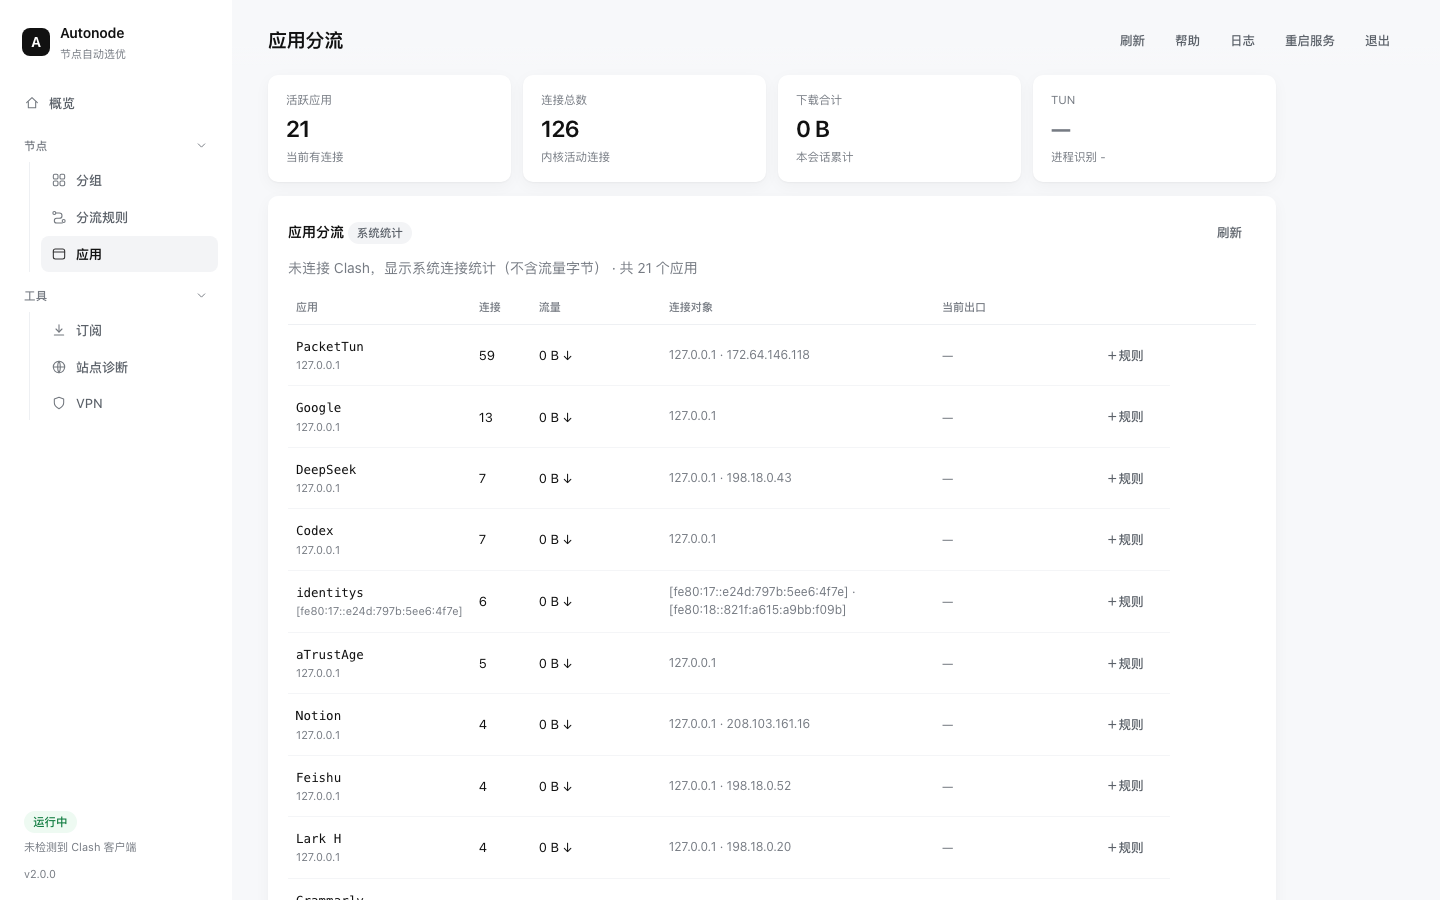
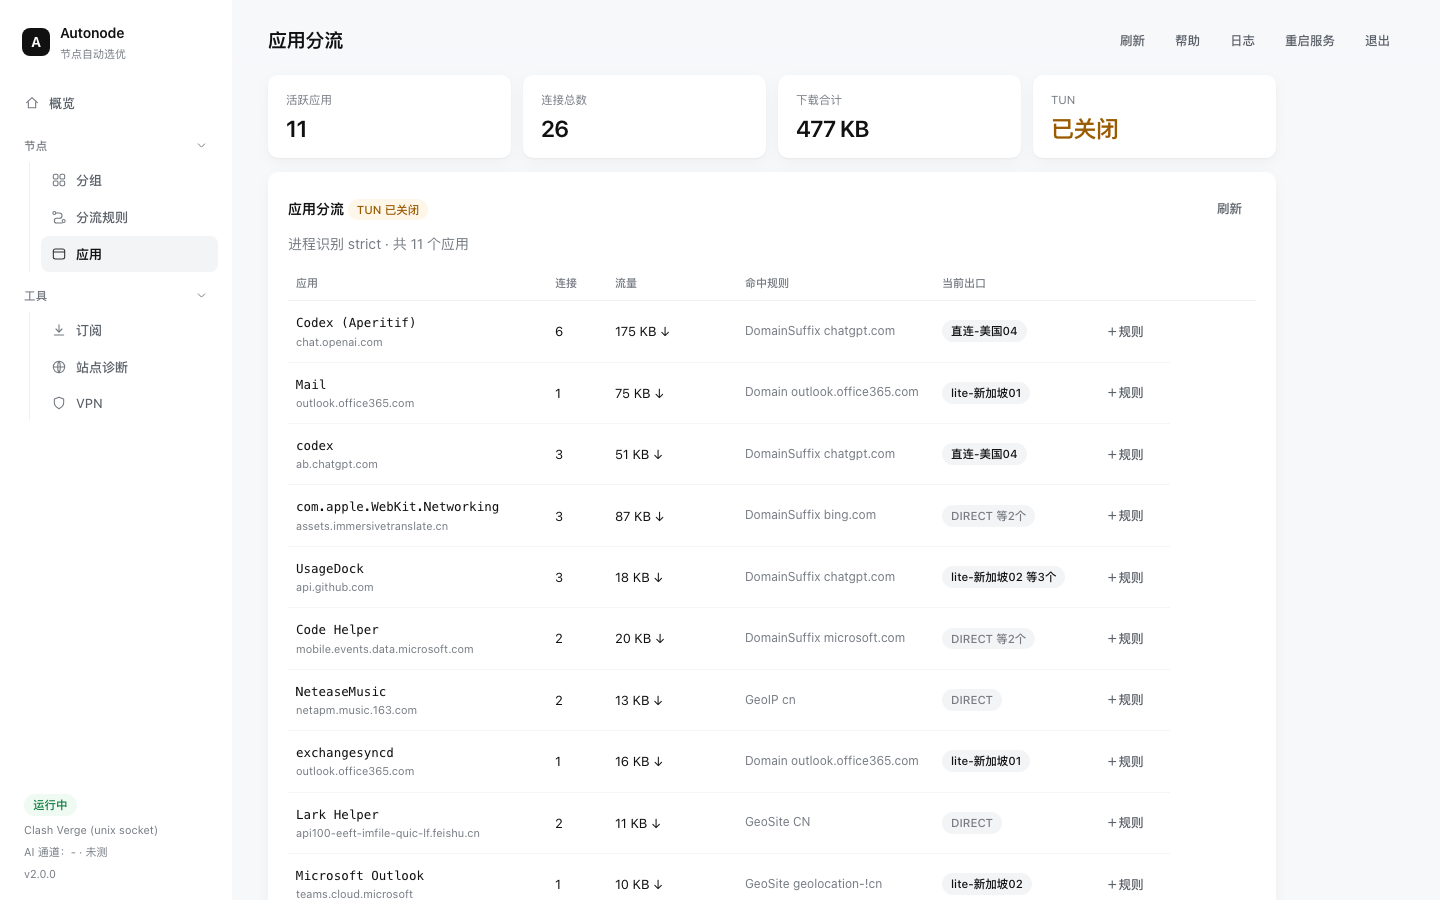
style: 去掉 KPI 副标题与说明小字；修正控制器类型显示；系统模式流量显示为 —

diff --git a/autonode.py b/autonode.py
@@ -632,7 +632,7 @@ def lsof_apps():
             host = endpoint.split("->")[-1].rsplit(":", 1)[0]
             if host:
                 item["hosts"].add(host)
-    apps = [{"name": v["name"], "conns": v["conns"], "download": 0, "upload": 0,
+    apps = [{"name": v["name"], "conns": v["conns"], "download": None, "upload": None,
              "rules": [], "outbound": [], "hosts": sorted(v["hosts"])[:2]}
             for v in agg.values()]
     apps.sort(key=lambda a: -a["conns"])
@@ -1773,7 +1773,7 @@ a{color:inherit}
 .kpi{background:var(--card);border-radius:10px;padding:16px 18px;box-shadow:var(--shadow)}
 .klabel{font-size:11.5px;color:var(--text-3)}
 .kval{font-size:23px;font-weight:600;letter-spacing:-.02em;margin-top:6px;line-height:1.2}
-.kfoot{font-size:11.5px;color:var(--text-3);margin-top:6px}
+.kfoot{display:none}
 @media(max-width:1040px){.kpis{grid-template-columns:repeat(2,minmax(0,1fr))}}
 
 /* 按钮 */
@@ -1986,7 +1986,7 @@ pre{background:#f7f8fa;border-radius:10px;padding:14px;max-height:60vh;overflow:
         <button class="primary" id="ov-test">开始测速</button></div>
     </div>
     <div id="ov-bars" class="bars" style="margin-top:16px"></div>
-    <div class="muted" id="ov-test-msg" style="margin-top:14px">串行 3 次探测，约 3 秒，避免并发触发风控。</div>
+    <div class="muted" id="ov-test-msg" style="margin-top:14px"></div>
   </div>
 
   <div class="card">
@@ -2003,8 +2003,7 @@ pre{background:#f7f8fa;border-radius:10px;padding:14px;max-height:60vh;overflow:
 <section id="sec-groups" hidden>
   <div class="card" id="no-clash" hidden>
     <div class="big">未检测到 Clash 控制器</div>
-    <div class="muted" style="margin-top:6px">当前可能只在使用系统 VPN（TUN）。分组选优需要 Clash Verge 等客户端在运行；
-    <a href="#vpn">到「VPN」页查看系统隧道状态</a>。</div>
+    <div class="muted" style="margin-top:6px">分组选优需要 Clash 客户端在运行，当前只有系统 VPN。</div>
   </div>
   <div class="card">
     <div class="row">
@@ -2155,7 +2154,6 @@ pre{background:#f7f8fa;border-radius:10px;padding:14px;max-height:60vh;overflow:
 <div class="modal" id="vpnmodal" hidden>
   <div class="box">
     <div class="row" style="justify-content:space-between"><b>新建 VPN（生成配置描述文件）</b><button id="vpn-close" class="ghost">关闭</button></div>
-    <div class="muted">macOS 不允许应用直接写系统 VPN 配置，这里生成 .mobileconfig，由系统弹窗确认安装。安装完成后点「刷新」即可管理。</div>
     <div class="grid">
       <div><label>名称</label><input id="vpn-name" placeholder="学校 VPN"></div>
       <div><label>类型</label><select id="vpn-type"><option value="IKEv2">IKEv2</option><option value="L2TP">L2TP over IPSec</option></select></div>
@@ -2171,7 +2169,6 @@ pre{background:#f7f8fa;border-radius:10px;padding:14px;max-height:60vh;overflow:
 <div class="modal" id="regionmodal" hidden>
   <div class="box">
     <div class="row" style="justify-content:space-between"><b>未识别地区的节点</b><button id="rg-close" class="ghost">关闭</button></div>
-    <div class="muted">选中地区后会记住，下次测速按新地区参与排序。</div>
     <div style="overflow:auto;max-height:55vh"><table><thead><tr><th>节点</th><th style="width:180px">地区</th></tr></thead>
     <tbody id="rg-body"></tbody></table></div>
     <div class="muted" id="rg-excluded" style="max-height:130px;overflow:auto"></div>
@@ -2182,7 +2179,6 @@ pre{background:#f7f8fa;border-radius:10px;padding:14px;max-height:60vh;overflow:
 <div class="modal" id="newgroupmodal" hidden>
   <div class="box">
     <div class="row" style="justify-content:space-between"><b>新建分组</b><button id="ng-close" class="ghost">关闭</button></div>
-    <div class="muted">会写进 Clash Verge 的分组模板并重启内核（约 15 秒）。之后点「扫描新分组」纳管。</div>
     <label>分组名称</label><input id="ng-name" placeholder="例如 AI-Claude">
     <label>成员（可多选，按住 ⌘/Ctrl）</label>
     <select id="ng-members" multiple size="10" style="width:100%"></select>
@@ -2337,7 +2333,7 @@ function loadApps(){
     var head = el('apps-head');
     if(head) head.textContent = sysMode ? '连接对象' : '命中规则';
     el('apps-note').textContent = sysMode
-      ? (d.notice || '未连接 Clash，显示系统连接统计') + ' · 共 ' + d.count + ' 个应用'
+      ? ('系统统计 · ' + d.count + ' 个应用')
       : ('进程识别 ' + (d.find_process_mode || '-') + ' · 共 ' + d.count + ' 个应用');
 
     var conns = 0, dl = 0;
@@ -2365,7 +2361,7 @@ function loadApps(){
       var outColor = /DIRECT/i.test(out) ? 'var(--text-3)' : 'var(--text)';
       return '<tr><td><div class="mono">'+a.name+'</div>'
         + '<div class="muted" style="font-size:11px">'+((a.hosts||[])[0]||'')+'</div></td>'
-        + '<td>'+a.conns+'</td><td>'+fmtBytes(a.download)+' ↓</td>'
+        + '<td>'+a.conns+'</td><td>'+(sysMode ? '<span class="muted">—</span>' : fmtBytes(a.download)+' ↓')+'</td>'
         + '<td class="muted" style="font-size:12px">'+(sysMode ? ((a.hosts||[]).join(' · ')||'-') : ((a.rules||[])[0]||'-'))+'</td>'
         + '<td>' + (sysMode ? '<span class="muted">—</span>'
             : '<span class="badge '+cls+'" style="white-space:nowrap;color:'+outColor+'">'+out+'</span>') + '</td>'
@@ -2466,9 +2462,9 @@ function loadOverview(){
 
     if(clash){
       var ctl = d.controller || {};
-      el('ov-ctl').textContent = (ctl.kind === 'unix') ? 'Clash Verge' : 'TCP';
-      el('ov-ctl-foot').textContent = (ctl.kind === 'unix') ? 'unix socket'
-        : ((ctl.host || '') + ':' + (ctl.port || ''));
+      el('ov-ctl').textContent = !ctl.kind ? '无'
+        : (ctl.kind === 'unix' ? 'Clash Verge' : 'Clash');
+      if(el('ov-ctl-foot')) el('ov-ctl-foot').textContent = ctl.target || '';
       el('ov-port').textContent = d.mixed_port || '—';
       el('ov-conns').textContent = d.connections != null ? d.connections : '—';
       var sel = el('ov-group');
@@ -2481,7 +2477,7 @@ function loadOverview(){
       sel.disabled = false;
     } else {
       el('ov-ctl').textContent = '无';
-      el('ov-ctl-foot').textContent = '未发现控制器';
+      if(el('ov-ctl-foot')) el('ov-ctl-foot').textContent = '';
       el('ov-port').textContent = '—';
       el('ov-conns').textContent = '—';
       var sel2 = el('ov-group');
@@ -3262,6 +3258,8 @@ class Handler(BaseHTTPRequestHandler):
                     "controller": eng.controller, "groups": [],
                     "network": {"gateway": _default_gateway()}}
             alive = controller_alive(eng.cfg)
+            if alive:
+                eng.controller = detect_controller(eng.cfg) or eng.controller
             ctx = controller_ctx(eng.cfg)
             try:
                 if not alive:
@@ -3347,9 +3345,18 @@ class Handler(BaseHTTPRequestHandler):
                 groups.append({"id": gid, "label": runner.cfg.get("label", gid),
                                "status": snap, "config": runner.cfg})
             ctl = dict(eng.controller or {})
-            if not controller_alive(eng.cfg):
+            ok = controller_alive(eng.cfg)
+            prev = getattr(eng, "_ctl_ok", None)
+            eng._ctl_ok = ok
+            if ok:
+                ctl = detect_controller(eng.cfg) or ctl
+            else:
                 ctl = {}
             eng.controller = ctl
+            if ok and prev is False:
+                for runner in eng.runners.values():
+                    if runner.cfg.get("enabled"):
+                        runner.run(block=False)
             body = {"enabled": eng.cfg["enabled"], "port": eng.cfg["port"],
                     "version": VERSION,
                     "controller": eng.controller,
@@ -3426,7 +3433,7 @@ class Handler(BaseHTTPRequestHandler):
                 apps = lsof_apps()
                 data = {"ok": True, "apps": apps, "count": len(apps), "mode": "system",
                         "tun": False, "find_process_mode": "",
-                        "notice": "未连接 Clash，显示系统连接统计（不含流量字节）"}
+                        "notice": "系统统计"}
             else:
                 data["mode"] = "clash"
             return self._send(200, json.dumps(data, ensure_ascii=False))
